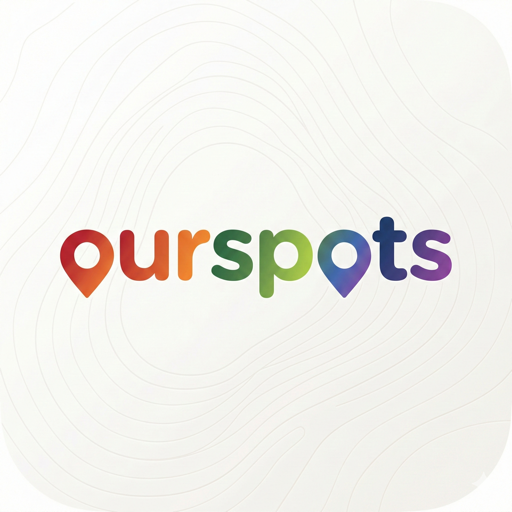
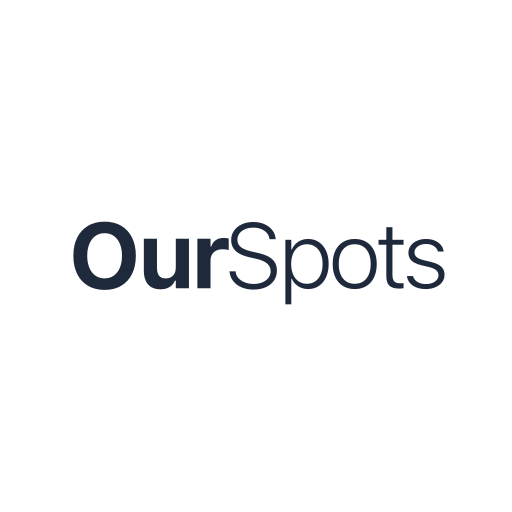
style: 앱 아이콘 리브랜딩 — 네이비 버전

diff --git a/src/app/page.tsx b/src/app/page.tsx
@@ -349,6 +349,13 @@ export default function Home() {
 
   const [isRefreshing, setIsRefreshing] = useState(false);
   const [showAbout, setShowAbout] = useState(false);
+  const [showAboutBadge, setShowAboutBadge] = useState(false);
+
+  useEffect(() => {
+    if (!localStorage.getItem('about-seen')) {
+      setShowAboutBadge(true);
+    }
+  }, []);
 
   const handleRefreshMarkers = useCallback(async () => {
     setIsRefreshing(true);
@@ -453,16 +460,16 @@ export default function Home() {
       {/* Header */}
       <header ref={headerRef} className="absolute top-0 left-0 right-0 z-10">
         {/* Title Bar */}
-        <div className="bg-[#FDFBF7] border-b border-stone-200/60 shadow-sm">
-          <div className="px-4 py-3 flex items-center justify-between">
+        <div className="bg-white border-b border-gray-100 shadow-sm">
+          <div className="px-4 py-2.5 flex items-center gap-2">
+            <svg className="w-5 h-5 text-red-500 shrink-0" viewBox="0 0 24 24" fill="currentColor">
+              <path d="M12 2C8.13 2 5 5.13 5 9c0 5.25 7 13 7 13s7-7.75 7-13c0-3.87-3.13-7-7-7zm0 9.5c-1.38 0-2.5-1.12-2.5-2.5s1.12-2.5 2.5-2.5 2.5 1.12 2.5 2.5-1.12 2.5-2.5 2.5z"/>
+            </svg>
             <h1
-              className="text-lg sm:text-xl font-semibold tracking-tight"
-              style={{
-                fontFamily: 'var(--font-noto-serif-kr), serif',
-                color: '#3D3229'
-              }}
+              className="text-lg sm:text-xl font-bold tracking-tight text-[#1E293B]"
+              style={{ fontFamily: 'var(--font-geist-sans), sans-serif' }}
             >
-              하민이네 대동여지도
+              Our<span className="font-light">Spots</span>
             </h1>
           </div>
         </div>
@@ -643,13 +650,16 @@ export default function Home() {
         </button>
         <ShareLinkButton />
         <button
-          onClick={() => setShowAbout(true)}
-          className="bg-white/90 backdrop-blur p-2.5 rounded-full shadow-lg hover:bg-white transition-colors"
+          onClick={() => { setShowAbout(true); setShowAboutBadge(false); localStorage.setItem('about-seen', '1'); }}
+          className="relative bg-white/90 backdrop-blur p-2.5 rounded-full shadow-lg hover:bg-white transition-colors"
           title="프로젝트 소개"
         >
           <svg className="w-5 h-5 text-gray-600" fill="none" stroke="currentColor" viewBox="0 0 24 24">
             <path strokeLinecap="round" strokeLinejoin="round" strokeWidth={2} d="M8 12h.01M12 12h.01M16 12h.01M21 12c0 4.418-4.03 8-9 8a9.863 9.863 0 01-4.255-.949L3 20l1.395-3.72C3.512 15.042 3 13.574 3 12c0-4.418 4.03-8 9-8s9 3.582 9 8z" />
           </svg>
+          {showAboutBadge && (
+            <span className="absolute -top-0.5 -right-0.5 w-2.5 h-2.5 bg-red-500 rounded-full border-2 border-white" />
+          )}
         </button>
       </div>
 

diff --git a/src/app/layout.tsx b/src/app/layout.tsx
@@ -28,8 +28,8 @@ export const viewport: Viewport = {
 };
 
 export const metadata: Metadata = {
-  title: "하민이네 대동여지도",
-  description: "우리 가족이 함께 만드는 맛집, 놀이터, 추억의 지도",
+  title: "OurSpots",
+  description: "우리가 함께 만드는 장소 지도",
   icons: {
     icon: "/favicon.ico",
     apple: "/apple-touch-icon.png",
